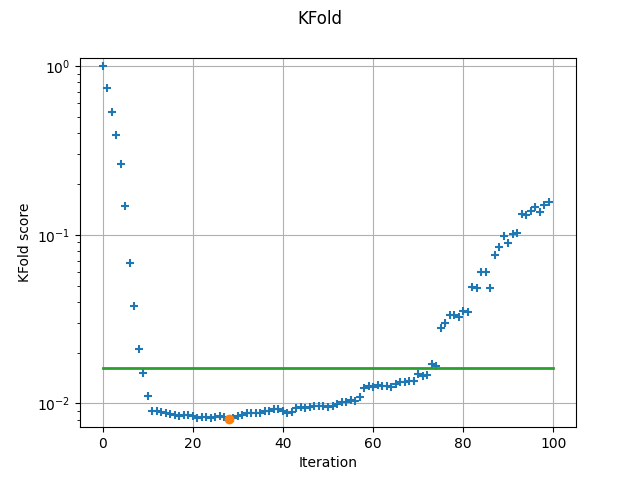
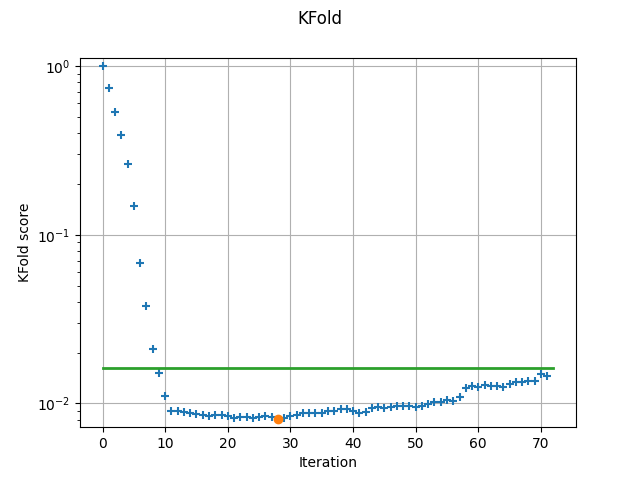
PCE_LARS/OrthogonalMatchingPursuitPCE.py: Implement simple early stopping

diff --git a/PCE_LARS/OrthogonalMatchingPursuitPCE.py b/PCE_LARS/OrthogonalMatchingPursuitPCE.py
@@ -143,7 +143,7 @@ class OrthogonalMatchingPursuitPCE:
 
             for i in range(self.maximumBasisSize - 1):
                 if self.verbose:
-                    print(f"Current active indices = {list_of_active_functions}")
+                    print(f"Current active indices ({len(list_of_active_functions)})= {list_of_active_functions}")
                 maximum_absolute_correlation = 0.0
                 best_basis_function_index = None
 
@@ -165,7 +165,12 @@ class OrthogonalMatchingPursuitPCE:
                         f"  Best index = {best_basis_function_index} "
                         f"with max. abs. corr. = {maximum_absolute_correlation:.4e}"
                     )
-
+                # Early stopping criterion ---
+                if maximum_absolute_correlation < self.minAbsCorrelation:
+                    if self.verbose:
+                        print(f"  Stopping early: maximum absolute correlation ({maximum_absolute_correlation:.4e}) "
+                              f"is below the threshold ({self.minAbsCorrelation:.4e}).")
+                    break
                 # Update the LS method
                 leastSquaresMethod.update(
                     [best_basis_function_index], list_of_active_functions, []
@@ -286,6 +291,7 @@ maximumBasisSize = 100
 print(f"Number of coefficients = {maximumBasisSize}")
 
 # %%
+# Set minAbsCorrelation to zero to see all path. 
 algo = OrthogonalMatchingPursuitPCE(
     input_sample,
     output_sample,
@@ -293,6 +299,7 @@ algo = OrthogonalMatchingPursuitPCE(
     basis,
     maximumBasisSize,
     verbose=True,
+    minAbsCorrelation = 1.0e-2  # Arbitrary early stopping
 )
 algo.run()
 
@@ -343,7 +350,8 @@ fitting_score_min = min(fitting_score_list)
 graph = ot.Graph(
     f"{fitting.getClassName()}", "Iteration", f"{fitting.getClassName()} score", True
 )
-cloud = ot.Cloud(range(maximumBasisSize), fitting_score_list)
+number_of_selected_coefficients = len(fitting_score_list)
+cloud = ot.Cloud(range(number_of_selected_coefficients), fitting_score_list)
 graph.add(cloud)
 graph.setLogScale(ot.GraphImplementation.LOGY)
 # Plot min corrected score
@@ -352,7 +360,7 @@ cloud.setPointStyle("circle")
 cloud.setLegend("Min")
 graph.add(cloud)
 # Plot error factor
-curve = ot.Curve([0, maximumBasisSize], [error_factor * fitting_score_min] * 2)
+curve = ot.Curve([0, number_of_selected_coefficients], [error_factor * fitting_score_min] * 2)
 curve.setLineWidth(2.0)
 curve.setLegend("Treshold")
 graph.add(curve)
